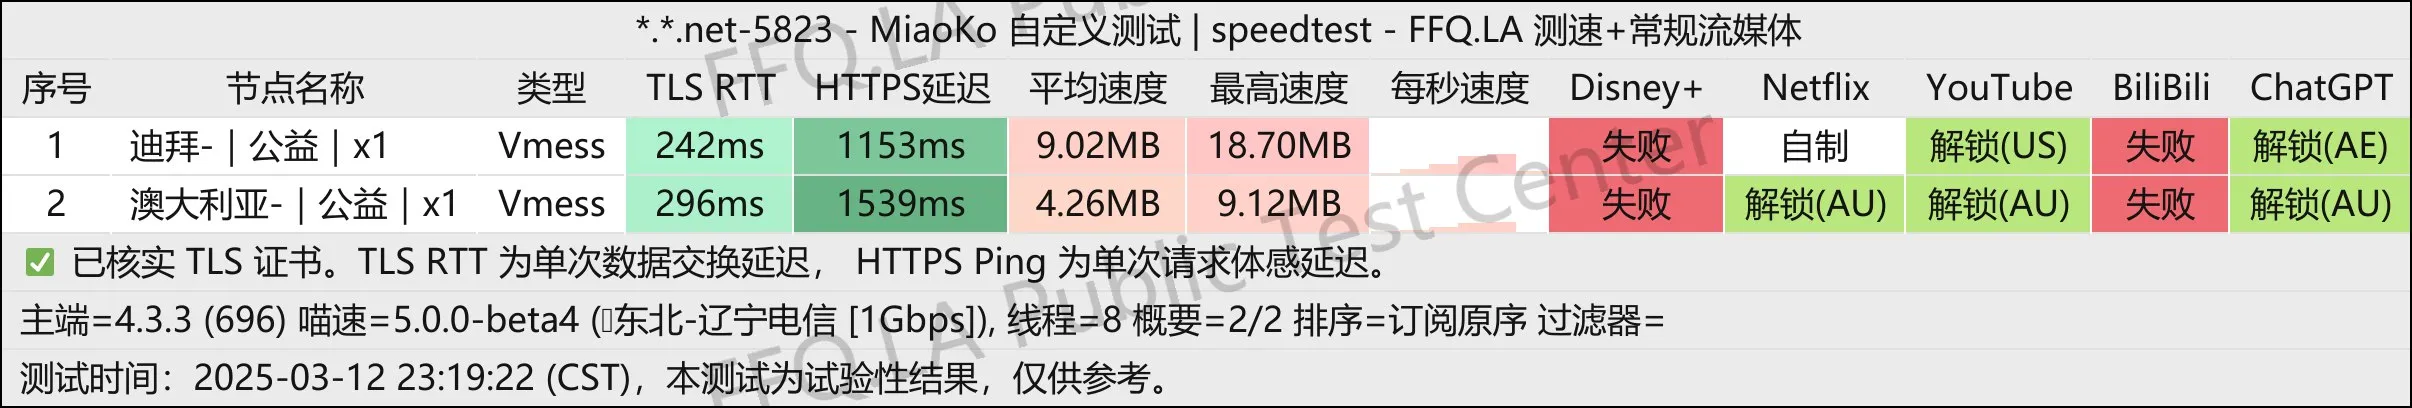
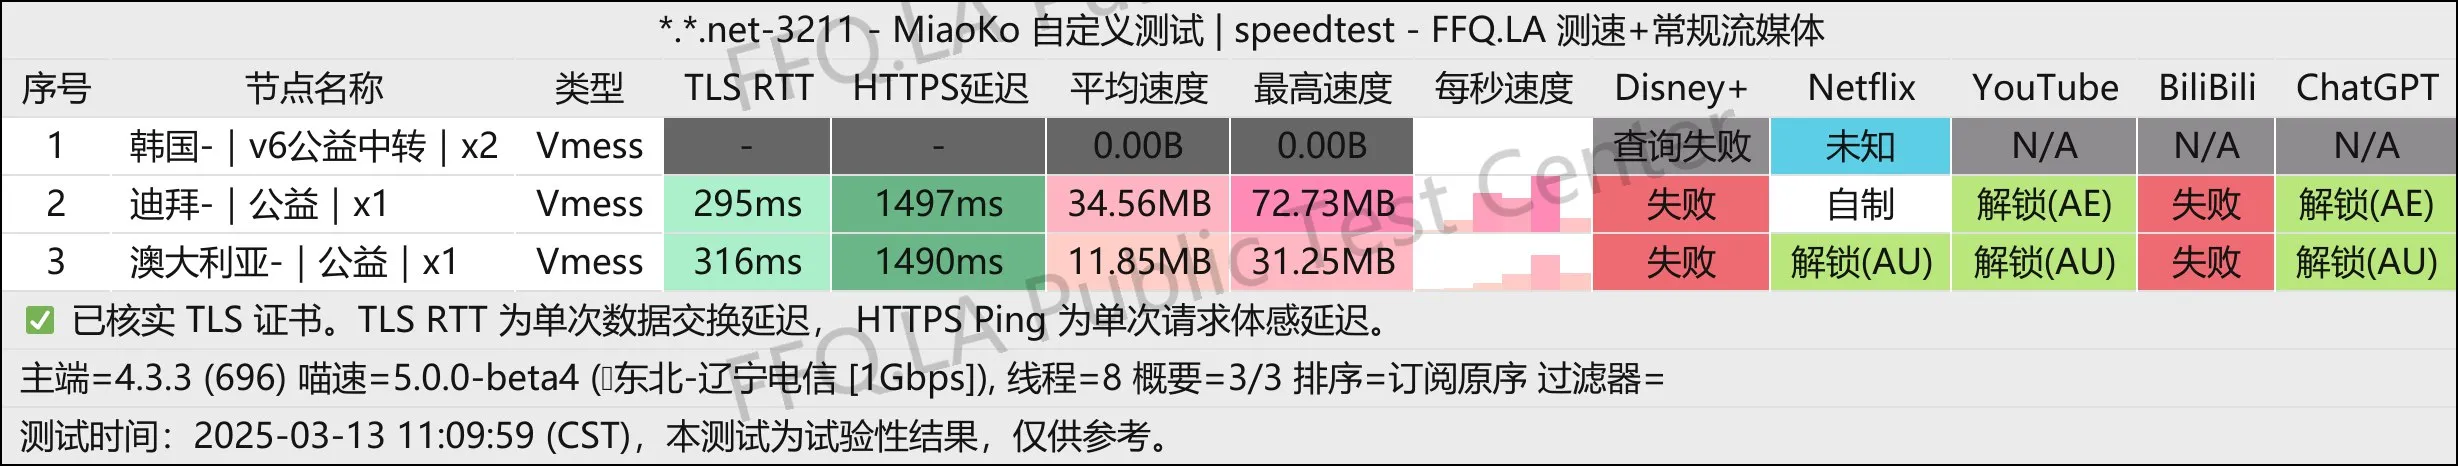
Add new content

diff --git a/src/vpn/2025/03.md b/src/vpn/2025/03.md
@@ -11,11 +11,11 @@ lastUpdated: false
 
 0 元购买“公益”66GB/30 天套餐。
 
-节点位置：澳大利亚、阿联酋
+节点位置：澳大利亚、阿联酋、韩国
 
 协议类型：VMess
 
-节点数量：2
+节点数量：3
 
 注册地址：<a href="https://kpcloud.ggff.net/#/register?code=mHghTfEl" target="_blank" rel="noreferrer nofollow">kpcloud.ggff.net</a>
 
